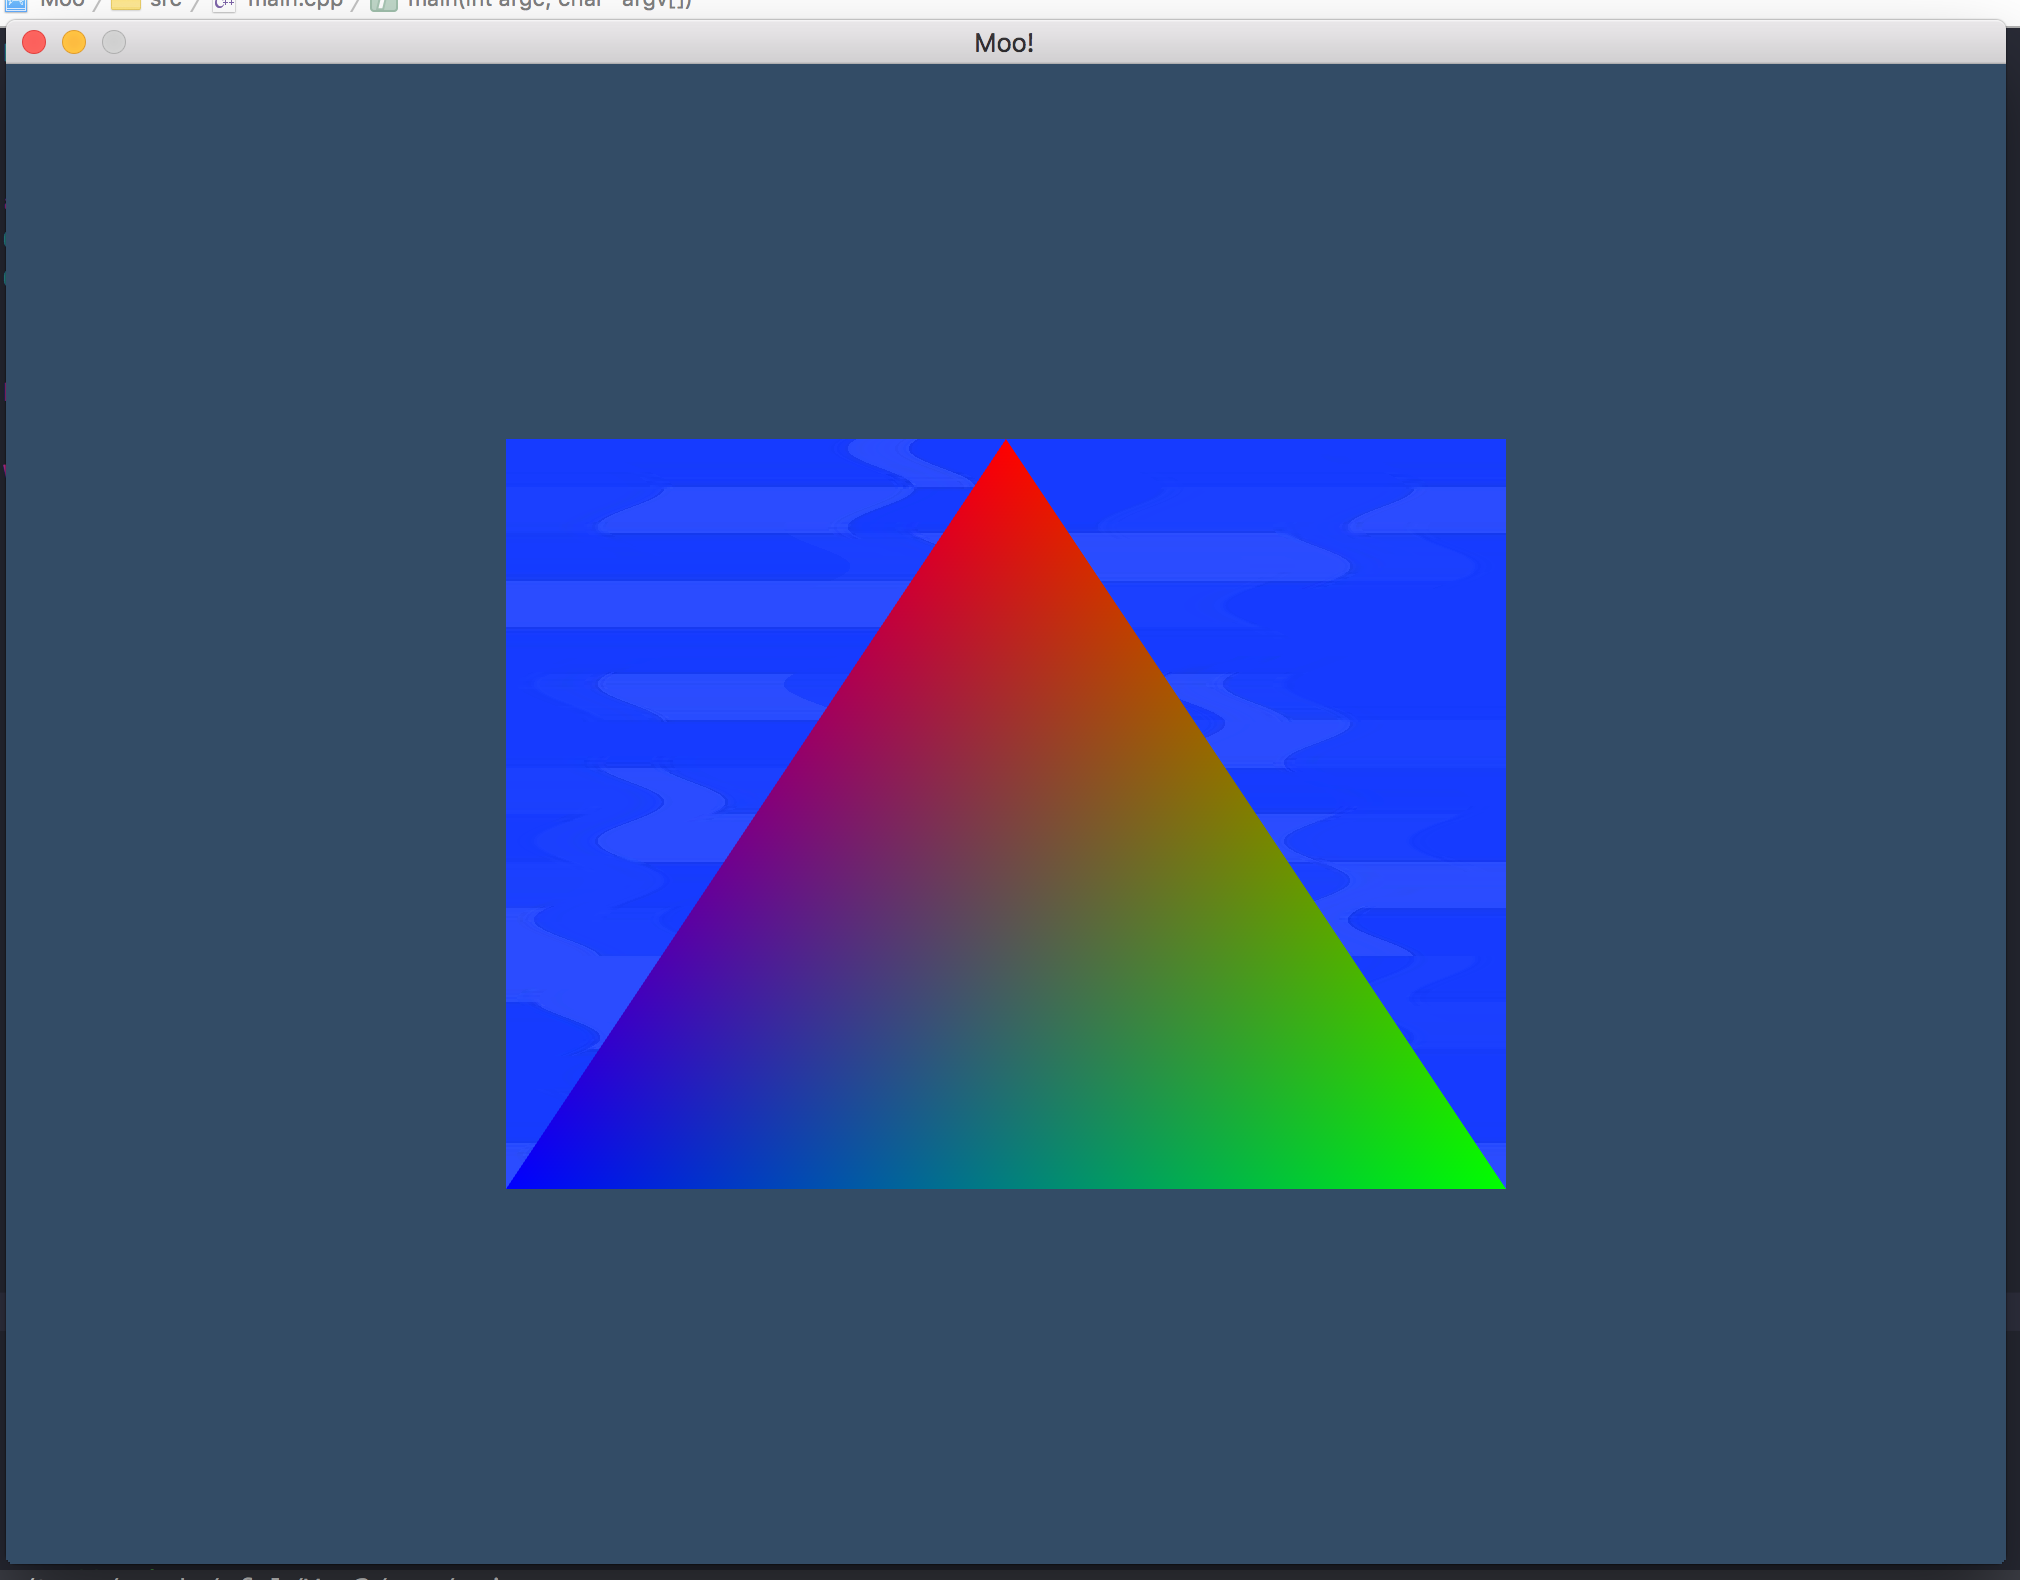
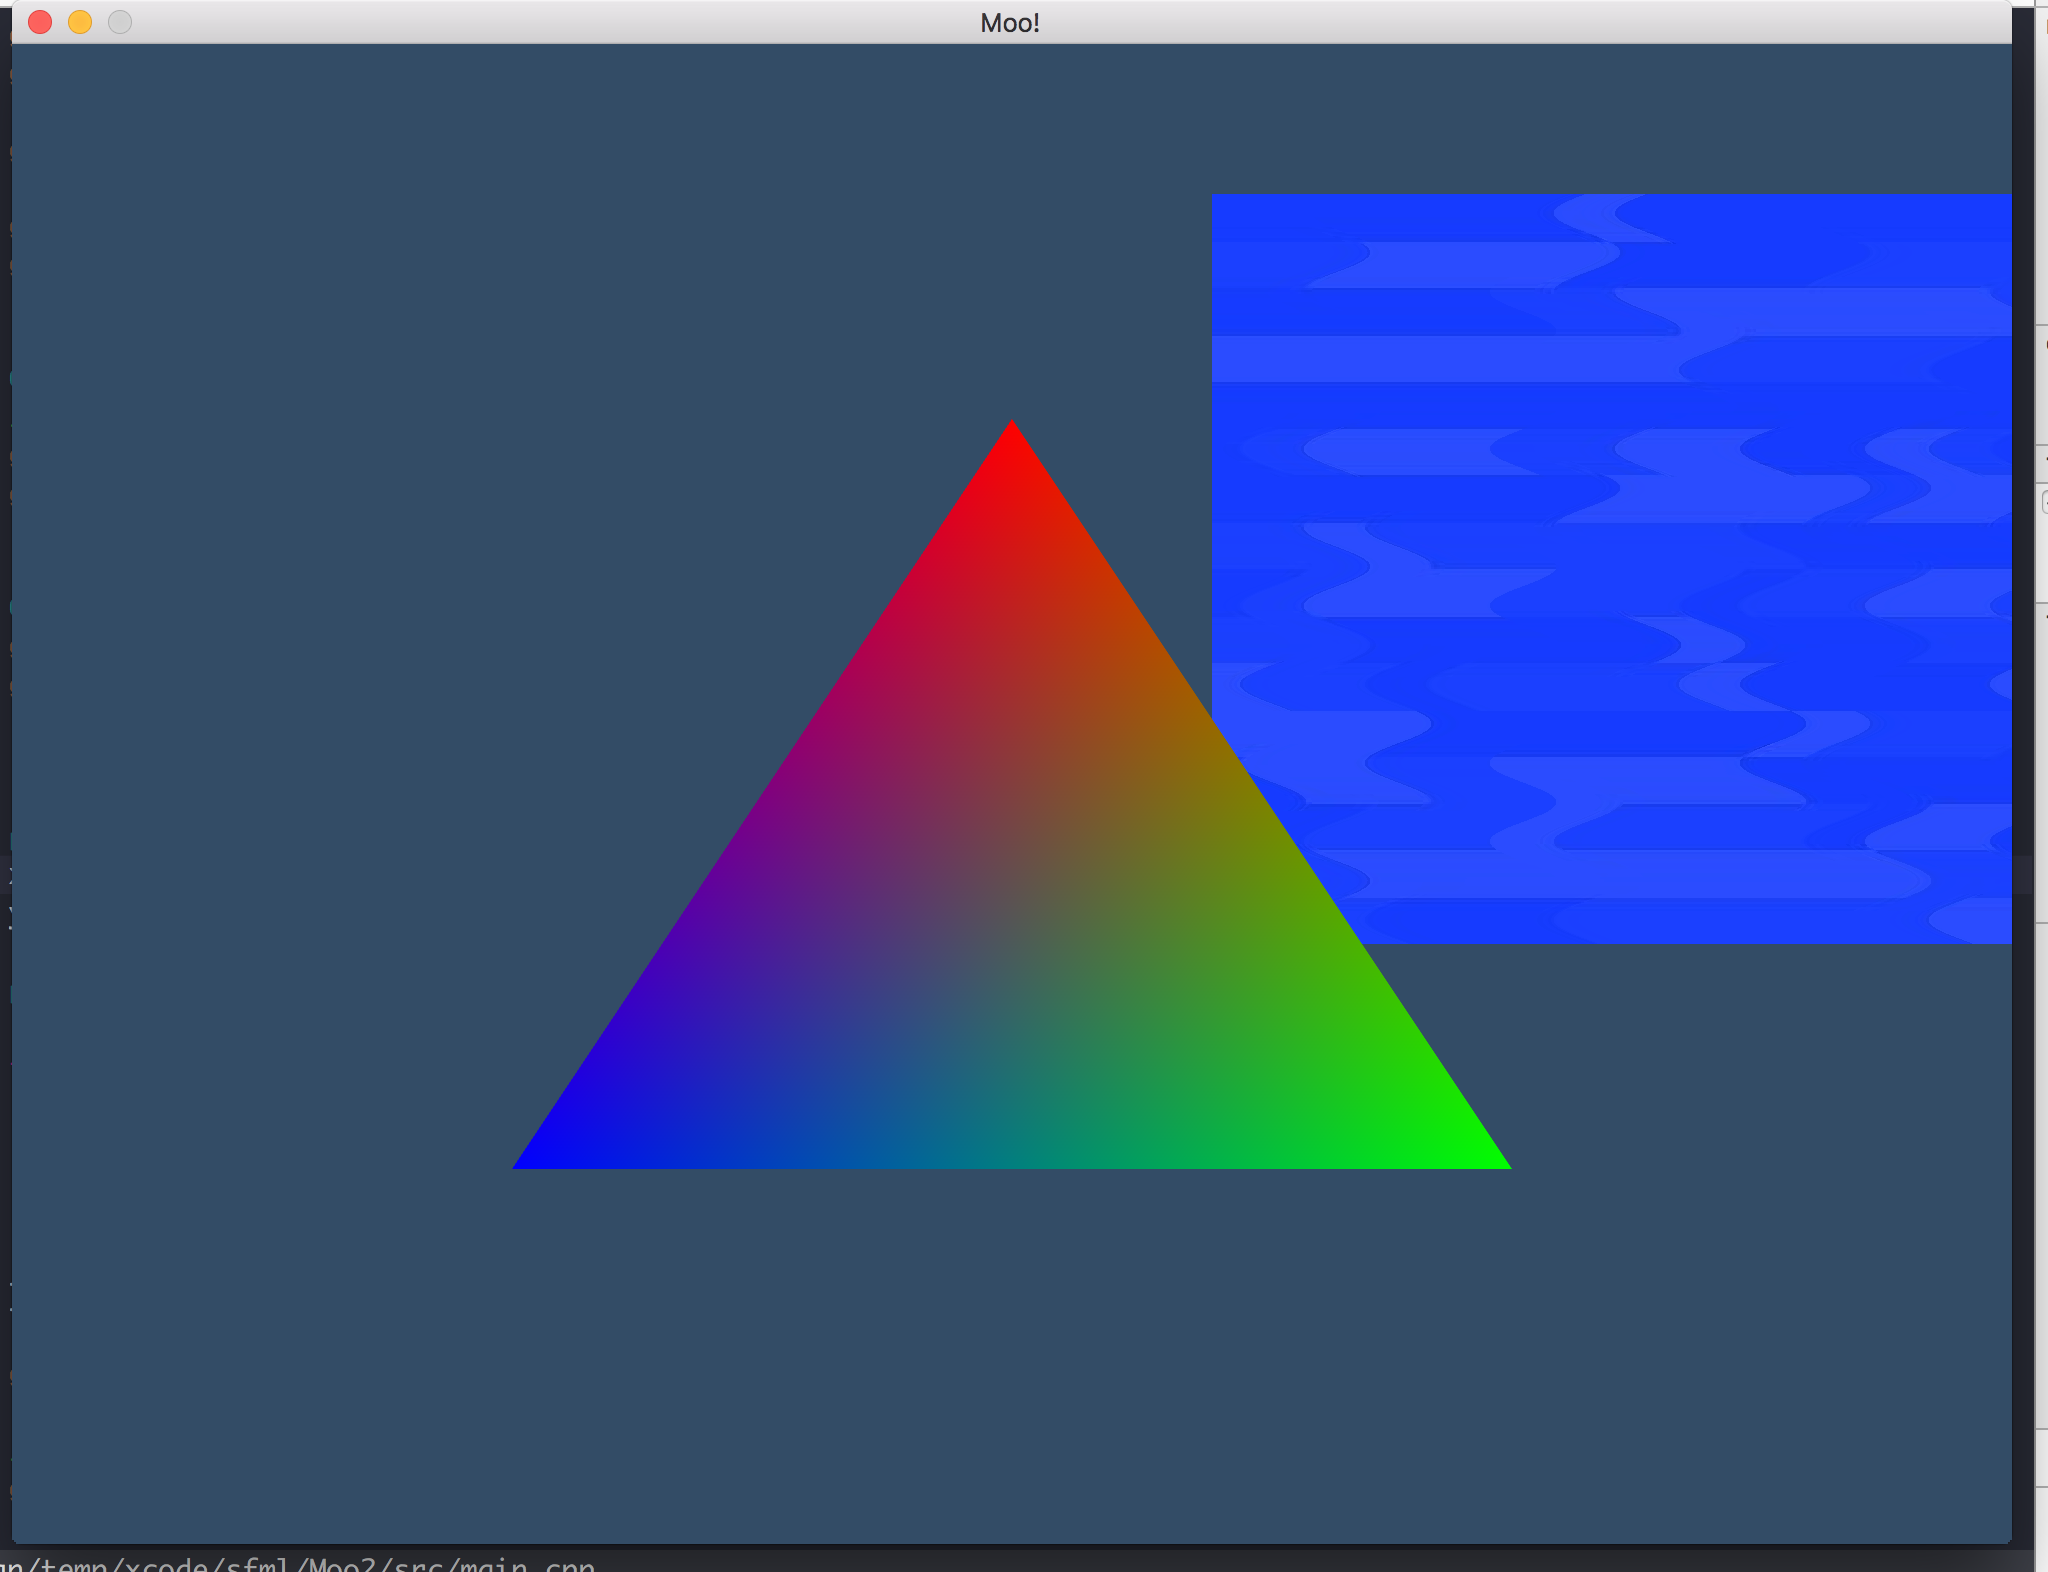
The square moves with the arrow keys!

Changed region(s): [[0.0, 0.0, 1.0, 1.0], [0.0, 0.1247, 0.0312, 0.187], [0.0, 0.2805, 0.0312, 0.3117]]

diff --git a/src/main.cpp b/src/main.cpp
@@ -20,6 +20,9 @@ GLuint triangleShaderProgram;
 GLuint squareVao;
 GLuint triangleVao;
 
+GLuint squareBuffer;
+GLuint triangleBuffer;
+
 GLfloat vertices[] = {
     -0.5f, 0.5f, 0.0f, 0.0f,   // Top-left
     0.5f, 0.5f, 1.0f, 0.0f,    // Top-right
@@ -110,7 +113,6 @@ void setupSquareShape() {
 	glGenVertexArrays(1, &squareVao);
     glBindVertexArray(squareVao);
 
-    GLuint squareBuffer;
     // Create a buffer, store its id in 'vbo'
     glGenBuffers(1, &squareBuffer);
 
@@ -160,7 +162,6 @@ void setupTriangleShape() {
 	glGenVertexArrays(1, &triangleVao);
     glBindVertexArray(triangleVao);
 
-    GLuint triangleBuffer;
     glGenBuffers(1, &triangleBuffer);
 
 	glBindBuffer(GL_ARRAY_BUFFER, triangleBuffer);
@@ -178,6 +179,26 @@ void setupTriangleShape() {
     glVertexAttribPointer(colorAttrib, 3, GL_FLOAT, GL_FALSE, 5*sizeof(float), (void*)(2*sizeof(float)));
 }
 
+void moveSquare(float x, float y) {
+    printf("x: %f\n", x);
+    x = x * 0.1;
+    y = y * 0.1;
+    
+    printf("x now: %f\n", x);
+
+    for (int i = 0; i < sizeof(vertices) / sizeof(vertices[0]); i += 4) {
+        // Update x
+        printf("%f => %f\n", vertices[i], vertices[i] + x);
+        vertices[i] = vertices[i] + x;
+        // Update y
+        vertices[i + 1] = vertices[i + 1] + y;
+    }
+    
+    glBindBuffer(GL_ARRAY_BUFFER, squareBuffer);
+    
+    // Update the vertices in our squareBuffer
+    glBufferSubData(GL_ARRAY_BUFFER, 0, sizeof(vertices), vertices);
+}
 
 void renderBg() {
 	glClearColor(0.2f, 0.3f, 0.4f, 0.0f);
@@ -234,14 +255,14 @@ int main(int argc, char *argv[]) {
     
     GLint e = glGetError();
     printf("%i\n", e);
-    
-    
+
+
 
     auto start = std::chrono::high_resolution_clock::now();
     GLuint sqTimeUniform = glGetUniformLocation(squareShaderProgram, "time");
     GLuint triTimeUniform = glGetUniformLocation(triangleShaderProgram, "time");
 
-    
+
     bool running = true;
 
     while (running) {
@@ -252,8 +273,26 @@ int main(int argc, char *argv[]) {
                     running = false;
                     break;
                 case sf::Event::KeyPressed:
-                    if (windowEvent.key.code == sf::Keyboard::Escape) {
-                        running = false;
+                    switch (windowEvent.key.code) {
+                        case sf::Keyboard::Escape:
+                            running = false;
+                            break;
+                        case sf::Keyboard::Right:
+                            printf("Right\n");
+                            moveSquare(1.0, 0.0);
+                            break;
+                        case sf::Keyboard::Left:
+                            printf("Left\n");
+                            moveSquare(-1.0, 0.0);
+                            break;
+                        case sf::Keyboard::Up:
+                            printf("Up\n");
+                            moveSquare(0.0, 1.0);
+                            break;
+                        case sf::Keyboard::Down:
+                            printf("Down\n");
+                            moveSquare(0.0, -1.0);
+                            break;
                     }
                     break;
                 default:
